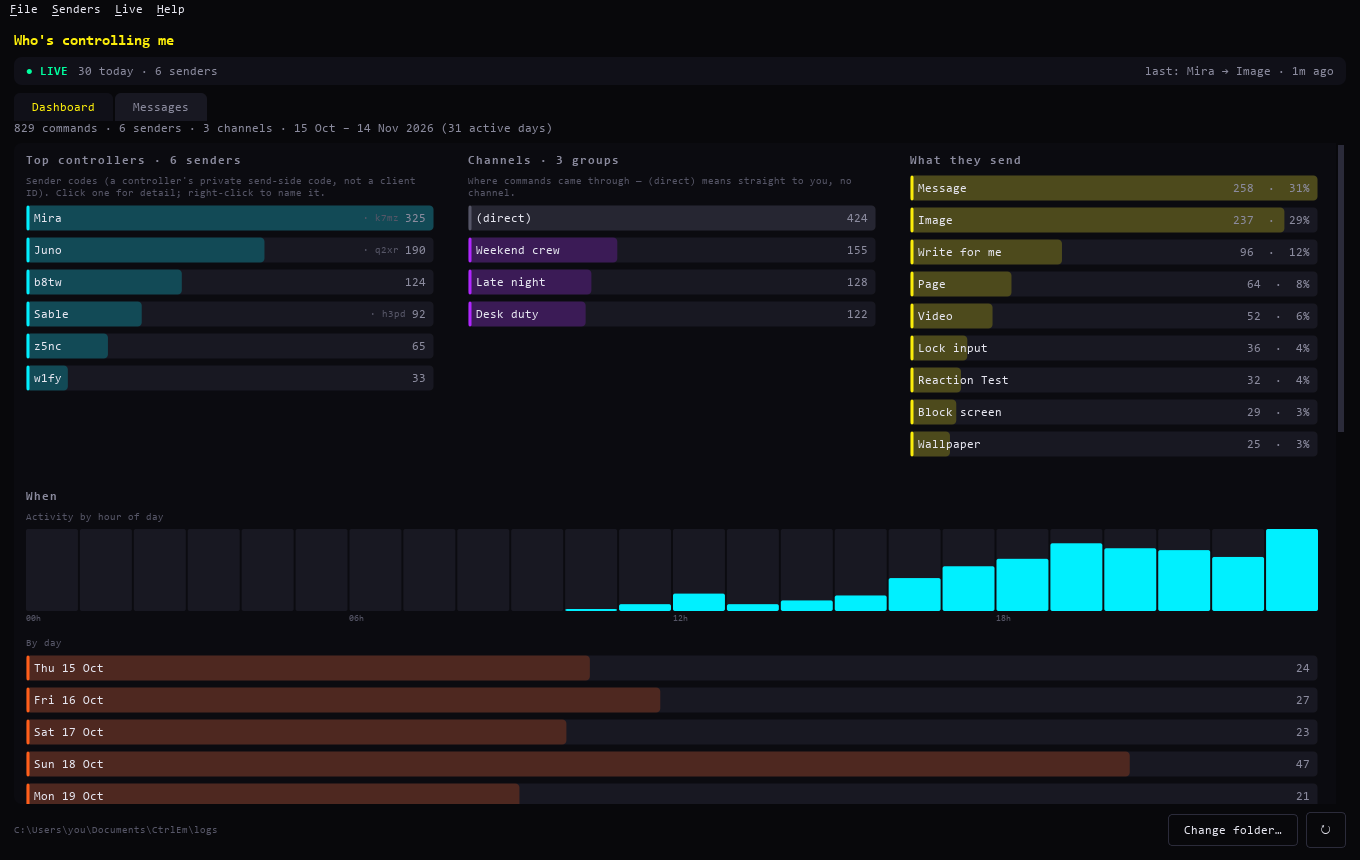
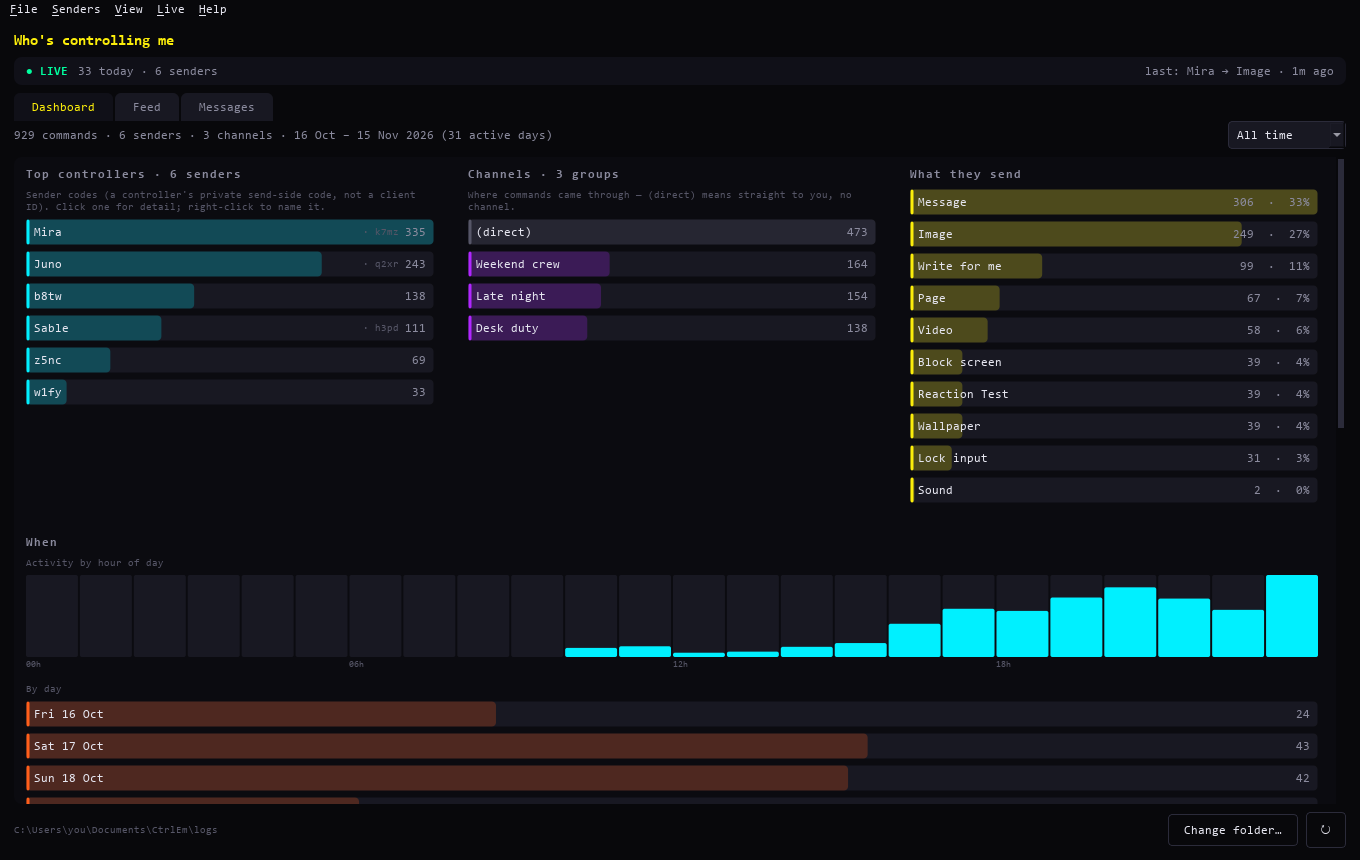
README and screenshots from v1.1.0

diff --git a/README.md b/README.md
@@ -27,8 +27,23 @@ someone starts flooding you.
   machine.
 - **Per-controller detail.** Click a sender to see their timeline, what they
   send, their channels, and when you first and last heard from them.
+- **Feed.** Everything you were sent as a timeline, newest on top, with the
+  pictures inline: "ksm6 sent you a pic · 22:19" and the picture under it.
+  Several pictures from one person in a row are grouped into one entry
+  ("Mira sent you 5 pics") with a gallery under it. Click a picture to see it
+  full size (GIFs play) and step through the rest of the group. Pictures
+  the CtrlEm client saved itself (its `popups` and `wallpapers` folders, next
+  to `logs`) are shown from disk. Videos and sounds play right in the app:
+  a sound tile is a small player (play/pause, seek, length), a video tile
+  shows its first frame and length and plays in the viewer. Both use the
+  client's saved copy, or stream the link if it kept none. Type a sender's name or
+  code (it autocompletes), tick which kinds of command to show, pick a period.
+  New commands appear live.
 - **Message search.** Search everything you were sent, decoded into readable
-  text and clean links. Filter by sender, command and date.
+  text and clean links. Filter by sender (autocompleting), any mix of
+  command types, and date.
+
+![The Feed: received pictures inline, newest first](screenshots/feed.png)
 
 ![Message search across every log](screenshots/messages.png)
 
@@ -67,6 +82,15 @@ folder you pick.
 - Tetherware only **reads** the receiver client's log files. It never changes
   them and never contacts CtrlEm.
 - Your logs, sender names and messages never leave your machine.
+- **The Feed shows the CtrlEm client's own saved copies first** (its
+  `popups` and `wallpapers` folders). Only a picture it didn't keep is
+  **downloaded** from wherever it's hosted (usually Discord's CDN). A video
+  or sound without a saved copy is only streamed when you press play. That site sees your IP address, as
+  it would if you opened the link. Only pictures on screen are fetched, and
+  they're kept in memory only: nothing is saved to disk. Turn it off under
+  **View → Show pictures in feed** (or the switch above the Feed): picture
+  previews are hidden and nothing is loaded; click a row to show just that
+  one.
 - **Usage stats are opt-in and off by default.** Tetherware asks once. If you
   say yes, it counts which features get used (for example "watcher started"),
   never anything from your logs. Turn it off any time under **Help → Usage
